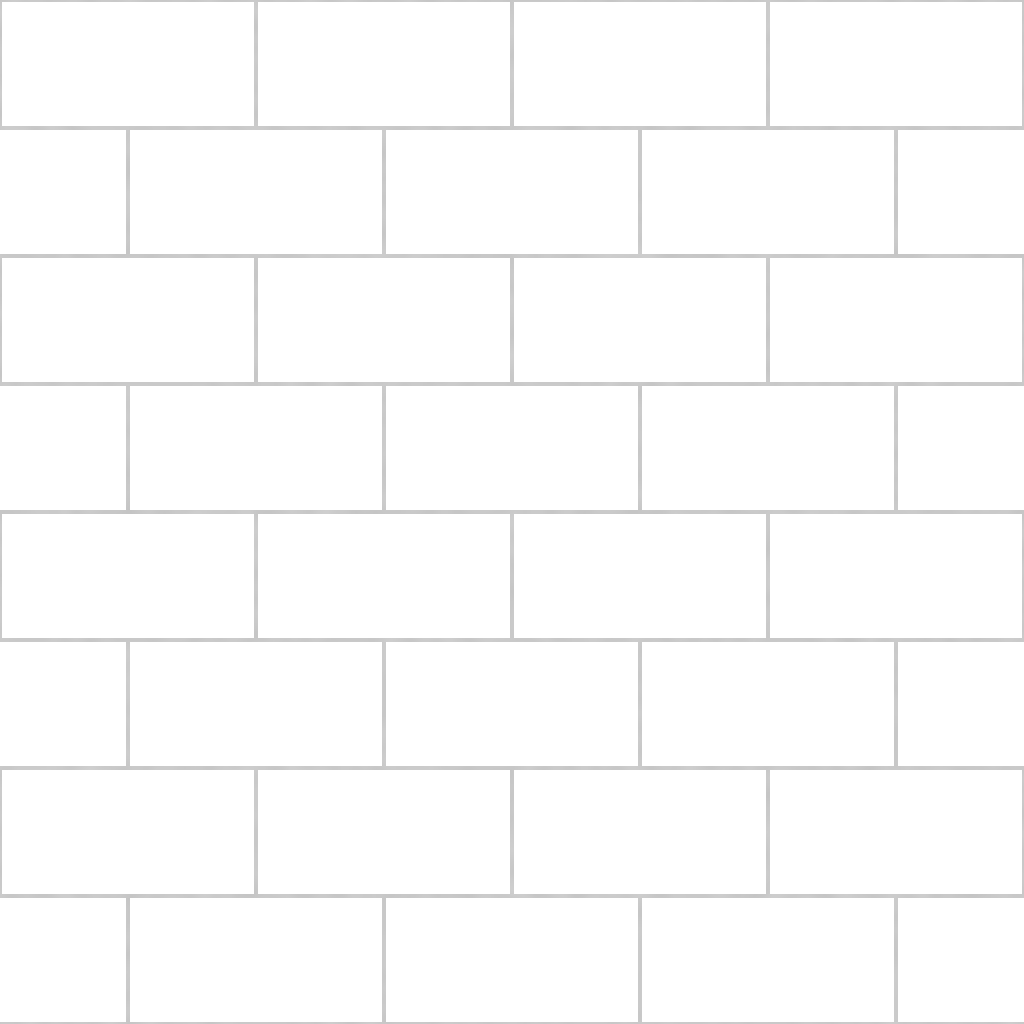
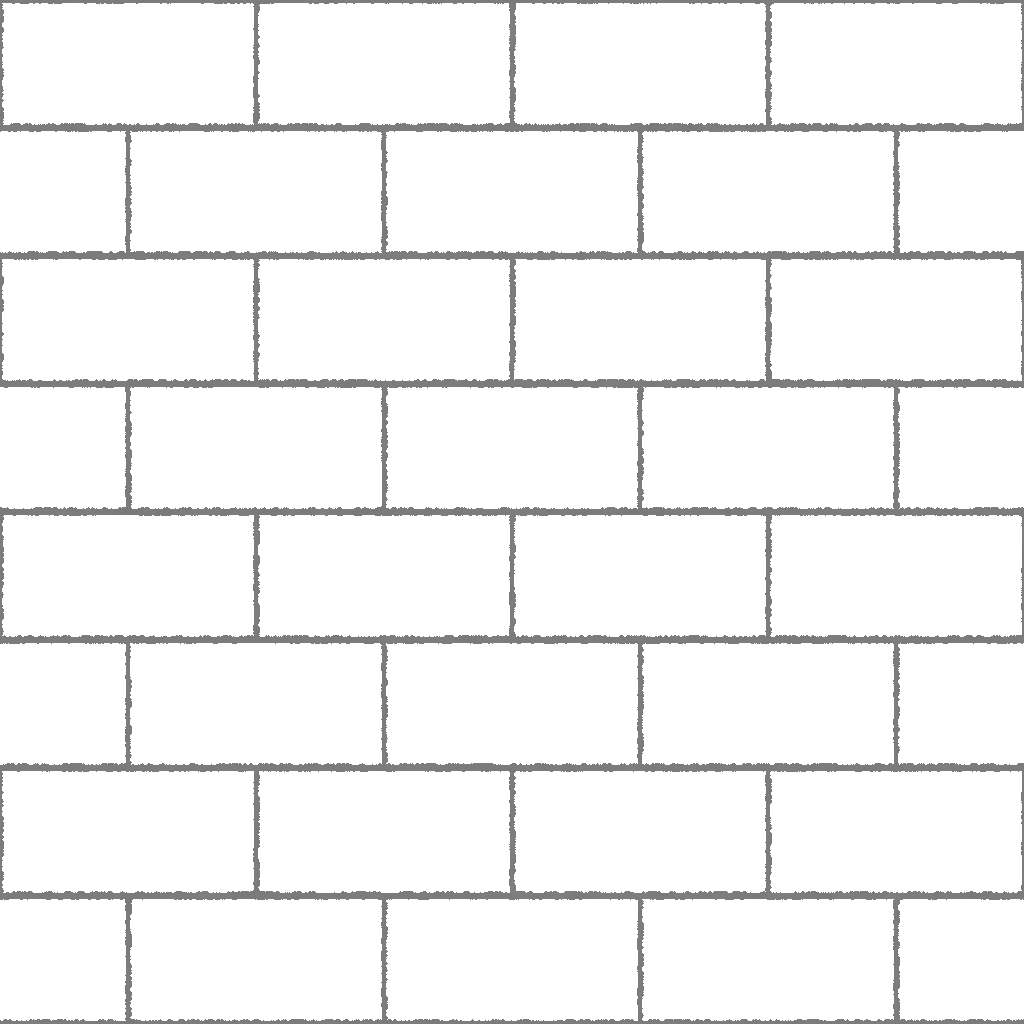
Erosion partway done

diff --git a/Assets/CreateTexture.cs b/Assets/CreateTexture.cs
@@ -18,6 +18,7 @@ public class CreateTexture : MonoBehaviour
     public ConcreteNoise cn;
     public CeramicNoise rn;
     public Color between_color = Color.gray;
+    public int erode_height = 5;
     public bool gen_brick, gen_con, gen_cera, stagger_tiles;
 
     private int brick_count_x, brick_count_y;
@@ -62,19 +63,36 @@ public class CreateTexture : MonoBehaviour
                 perlin_offset++;
             }
         }
-
         //Set positions of point's colors.
-        for(int p_x = 0; p_x < brick_count_x - 0;p_x++)
+        for (int p_x = 0; p_x < brick_count_x - 0; p_x++)
+        {
+            
+
             for (int p_y = 0; p_y < brick_count_y - 0; p_y++)
             {
                 Point p = getPoint(p_x, p_y);
                 Point r = getPoint(p_x + 1, p_y);
                 Point d = getPoint(p_x, p_y + 1);
 
-                int mid_x = (p.x + x_dif/2);
+
+                List<int> ign_x_top = generateRandomWalk((y_dif - mortar_width) / 2, 
+                    (x_dif - mortar_height) / 2 - (-x_dif + mortar_height) / 2,
+                    p_x + p_y * 10);
+                List<int> ign_x_bottom = generateRandomWalk((-y_dif + mortar_width) / 2, 
+                    (x_dif - mortar_height) / 2 - (-x_dif + mortar_height) / 2,
+                    p_x + p_y * 10);
+
+                List<int> ign_y_right = generateRandomWalk((-x_dif + mortar_height) / 2,
+                    (y_dif - mortar_width) / 2 - (-y_dif + mortar_width) / 2,
+                    p_x + p_y * 10);
+                List<int> ign_y_left = generateRandomWalk((x_dif - mortar_height) / 2,
+                    (y_dif - mortar_width) / 2 - (-y_dif + mortar_width) / 2,
+                    p_x + p_y * 10);
+
+                int mid_x = (p.x + x_dif / 2);
                 int mid_y = (p.y + y_dif / 2);
 
-                if ( r != null)
+                if (r != null)
                 {
                     mid_x = (p.x + r.x) / 2;
                 }
@@ -86,31 +104,37 @@ public class CreateTexture : MonoBehaviour
                 //Generate the brick texture at each brick.
                 List<Color> colors = new List<Color>();
                 List<Color> normals = new List<Color>();
-                if(gen_brick)
-                { 
+                if (gen_brick)
+                {
                     bn.GenerateTexture(x_dif - mortar_width, y_dif - mortar_height, ref colors, ref normals, (int)Random.value * 100);
                     bn.perlinOffset -= (int)(1000 * Random.value);
-				}
-                else if(gen_con)
+                }
+                else if (gen_con)
                 {
                     cn.GenerateTexture(x_dif - mortar_width, y_dif - mortar_height, ref colors, ref normals);
                     cn.perlinOffset -= (int)(1000 * Random.value);
-				}
-                else if(gen_cera)
+                }
+                else if (gen_cera)
                 {
                     rn.GenerateTexture(x_dif - mortar_width, y_dif - mortar_height, ref colors, ref normals);
-					rn.perlinOffset -= (int)(1000 * Random.value);
-				}
+                    rn.perlinOffset -= (int)(1000 * Random.value);
+                }
                 int x_count = 0, y_count = 0;
-                for(int y = (-y_dif + mortar_width) / 2; y < (y_dif - mortar_width) / 2; y++)
+                for (int y = (-y_dif + mortar_width) / 2; y < (y_dif - mortar_width) / 2; y++)
                 {
                     for (int x = (-x_dif + mortar_height) / 2; x < (x_dif - mortar_height) / 2; x++)
                     {
-                        
-                        if (p.x + x >= 0 && p.x + x < resolution_x &&
-                            p.y + y >= 0 && p.y + y < resolution_y)
-                            //texture.SetPixel(p.x + x , p.y + y, Color.magenta);
-                            texture.SetPixel(p.x + x , p.y + y, colors[x_count + y_count * (x_dif - mortar_width / 1)]);
+
+                        if (ign_x_top[x_count]> y && ign_x_bottom[x_count] < y &&
+                            ign_y_right[y_count] < x && ign_y_left[y_count] > x)
+                        { 
+                            if (p.x + x >= 0 && p.x + x < resolution_x &&
+                                p.y + y >= 0 && p.y + y < resolution_y)
+                            { 
+                                //texture.SetPixel(p.x + x , p.y + y, Color.magenta);
+                                texture.SetPixel(p.x + x, p.y + y, colors[x_count + y_count * (x_dif - mortar_width / 1)]);
+                            }
+                        }
                         x_count++;
                     }
                     y_count++;
@@ -118,7 +142,7 @@ public class CreateTexture : MonoBehaviour
                 }
 
             }
-
+        }
 
         for (int p_x = 0; p_x < brick_count_x; p_x++)
             for (int p_y = 0; p_y < brick_count_y; p_y++)
@@ -136,6 +160,22 @@ public class CreateTexture : MonoBehaviour
 		binary.Write(bytes);
 		file.Close();
 	}
+
+    private List<int> generateRandomWalk(int init_pos, int length, int _rand)
+    {
+        List<int> ret = new List<int>();
+        Random.InitState(init_pos + Mathf.CeilToInt(Time.time) + _rand);
+        ret.Add(init_pos);
+        for(int i=0;i < length - 1;i++)
+        {
+            int rand = Random.Range(-1, 2);
+            if (Mathf.Abs(ret[i] + rand - init_pos) < erode_height)
+                ret.Add(ret[i] + rand);
+            else
+                ret.Add(ret[i]);
+        }
+        return ret;
+    }
 
     //Returns null if the point is invalid
     private Point getPoint(int x, int y)
